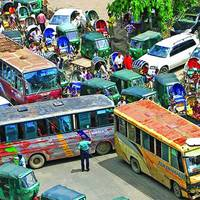
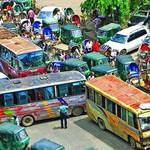
image rereresized :|

diff --git a/index.html b/index.html
@@ -38,7 +38,7 @@
             <!-- Question Section -->
             <div id="question_sec" class="content-wrapper lg:mx-8 my-2 lg:my-4">
                 <div id="ques_img" class="image-box flex justify-center">
-                    <img class="  w-[125px] h-[120px] lg:w-[160px] lg:h-[150px] xl:w-[200px] xl:h-[180px] object-cover rounded-[15px] lg:mb-4 " src="placeholder.png" alt="Question Image">
+                    <img class="  w-[125px] h-[120px] lg:w-[150px] lg:h-[145px] object-cover rounded-[15px] lg:mb-4 " src="placeholder.png" alt="Question Image">
                 </div>
                 <div id="question" class="question text-[18px] lg:text-[22px] my-4">Loading question...</div>
                 <div id="options" class="options w-full flex flex-col gap-6"></div>

diff --git a/reduceImage.py b/reduceImage.py
@@ -1,8 +1,8 @@
 import os
 from PIL import Image
 
-input_directory = "./assets/Award/"
-output_directory = "./assets/resizedAward/"
+input_directory = "./assets/questions/"
+output_directory = "./assets/resizedQuestions/"
 
 if not os.path.exists(output_directory):
     os.makedirs(output_directory)
